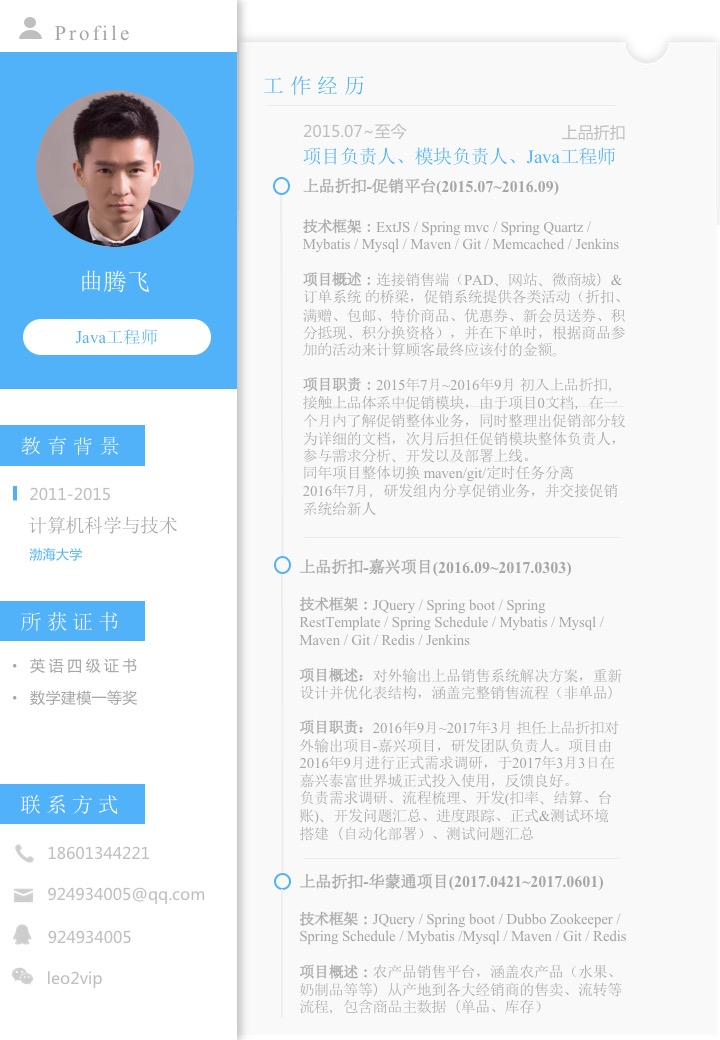
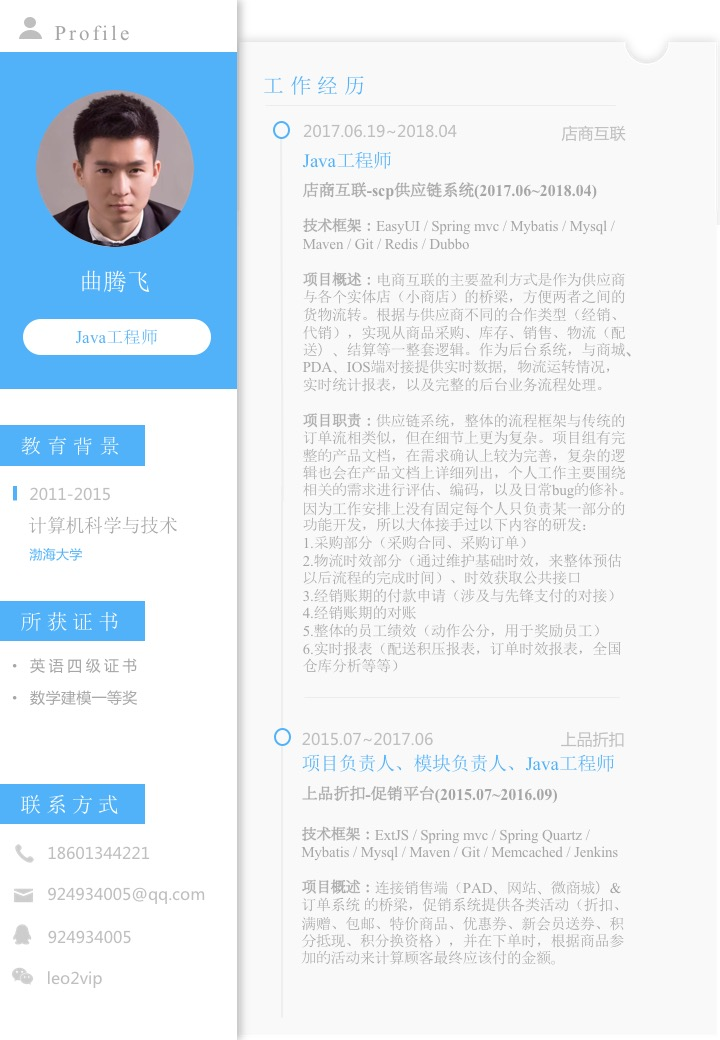
update resume

Changed region(s): [[0.3667, 0.1231, 0.8861, 0.9846]]

diff --git a/_site/resume/index.html b/_site/resume/index.html
@@ -203,7 +203,9 @@
     
     <div>
     	<p><img src="/static/img/resume1.jpg" alt="" />
-<img src="/static/img/resume2.jpg" alt="" /></p>
+         <img src="/static/img/resume2.jpg" alt="" />
+         <img src="/static/img/resume3.jpg" alt="" />
+      </p>
 
     </div>
 </div>

diff --git a/resume.md b/resume.md
@@ -5,3 +5,4 @@ permalink: /resume/
 ---
 ![](/static/img/resume1.jpg)
 ![](/static/img/resume2.jpg)
+![](/static/img/resume3.jpg)
